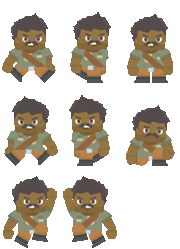
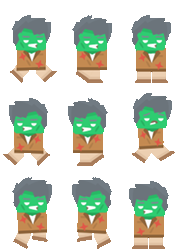
Player facing changes
- Player now faces where you aim
- Fixed minor shotgun audio issue (Audio was not playing)

diff --git a/Scripts/core/playerClass.js b/Scripts/core/playerClass.js
@@ -47,6 +47,7 @@ Player.prototype.constructor = Player;
 //Player update automatically called by PHASER
 Player.prototype.update = function () {
     this.movePlayer();
+    this.facingRight = (this.fireAngle >= -90);
 };
 
 //Moves the player
@@ -54,25 +55,27 @@ Player.prototype.movePlayer = function () {
     if (!this.alive || !this.isWalking)
         return;
 
+    var anim = (this.fireAngle < -90) ? "left" : "right";
+
     this.fireAngle = -(90 + 90 * -this.pad.axis(Phaser.Gamepad.XBOX360_STICK_RIGHT_X));
     this.gun.angle = this.fireAngle;
     this.gun.scale.y = (this.fireAngle < -90) ? -1 : 1;
 
     if (this.cursor.left.isDown || this.pad.axis(Phaser.Gamepad.XBOX360_STICK_LEFT_X)< -0.1){ //move left
         this.body.velocity.x = -300;
-        this.animations.play('left');
+        this.animations.play(anim);
     }
     else if (this.cursor.right.isDown || this.pad.axis(Phaser.Gamepad.XBOX360_STICK_LEFT_X)>0.1){ //move right
         this.body.velocity.x = 300;
-        this.animations.play('right');
+        this.animations.play(anim);
     }
     else {
         this.body.velocity.x = 0;
         this.animations.stop();
-        this.frame = 2;
+        this.frame = this.facingRight ? 2 : 8;
     }
     if ((this.cursor.up.isDown || this.pad.justPressed(Phaser.Gamepad.XBOX360_A)) && this.body.onFloor()){ //jump
-        this.body.velocity.y = -999;
+        this.body.velocity.y = -990;
     }
     if(this.pad.isDown(Phaser.Gamepad.XBOX360_RIGHT_TRIGGER)|| this.pad.justPressed(Phaser.Gamepad.XBOX360_RIGHT_BUMPER)){
         this.weapon[this.currentWeapon].fire(this, this.fireAngle);

diff --git a/Scripts/core/bulletClass.js b/Scripts/core/bulletClass.js
@@ -189,7 +189,7 @@ Weapon.Shotgun.prototype.fire = function (source, angle) {
 		this.getFirstExists(false).fire(x, y, angle + 5, this.bulletSpeed, 0, 0);
         this.getFirstExists(false).fire(x, y, angle + 10, this.bulletSpeed, 0, 0);
 
-
+    this.shotSfx.play(false,false,0.1,false);
     this.nextFire = this.game.time.time + this.fireRate;
 
 };
@@ -210,7 +210,7 @@ Weapon.Spreader = function (game) {
 
     for (var i = 0; i < 32; i++)
     {
-        this.add(new Bullet(game, 'pBullet', 10));
+        this.add(new Bullet(game, 'bPistol', 10));
     }
 
     return this;
@@ -252,7 +252,7 @@ Weapon.Splitter = function (game) {
 
     for (var i = 0; i < 32; i++)
     {
-        this.add(new Bullet(game, 'pBullet', 10));
+        this.add(new Bullet(game, 'bPistol', 10));
     }
 
     return this;

diff --git a/Scripts/core/enemyClass.js b/Scripts/core/enemyClass.js
@@ -229,8 +229,6 @@ Enemies.prototype.addEnemy = function (type, active, x, y, newWave) {
             if (sprite.partOfWave) {
                 waveProperties.counter -= sprite.wavePoints;
                 waveProperties.active += sprite.wavePoints;
-
-                console.log(waveProperties.active);
             }
 
         }
